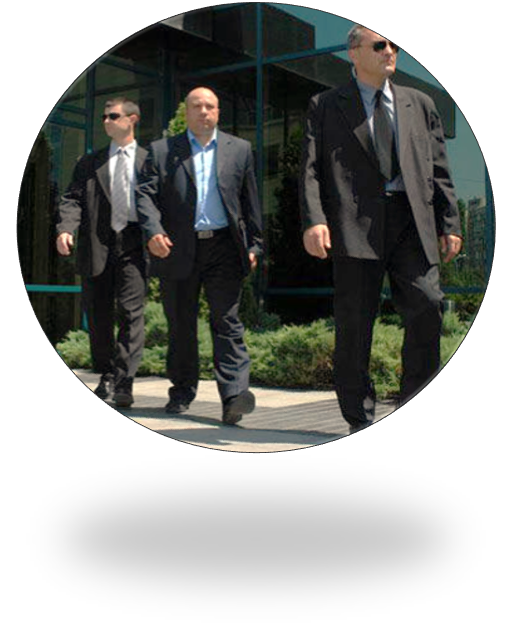
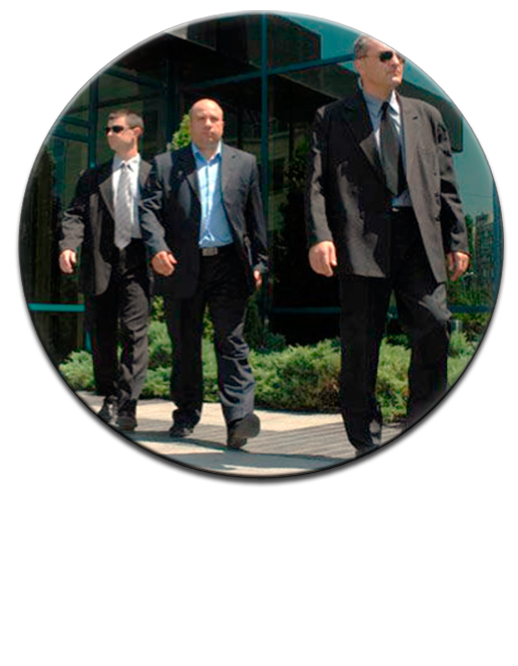
cambio de imagenes en servicios

diff --git a/index.html b/index.html
@@ -253,14 +253,14 @@
                              <h5 align="center">Asesoría en cuanto a Prevención Protocolar VIP</h5> 
                             </div>
                             <div class="panel-body">
-                                <div class="">
+                                <div class="round-body">
                             			<div class="price-main">
-                            				<span class="price-Unit"><i><img src="assets/img/Imagen1.png" class="img-responsive"></i></span>
+                            				<span class="price-Unit"><i><img src="assets/img/Imagen7.png" class="img-responsive"></i></span>
                             			</div>
 		                            </div>
                           <ul class="plan">      
                           <hr>
-                           <p align="justify">Asesoramiento dentro de los parámetros legales permitidos.</p>
+                           <p align="justify">Asesoramiento en la aplicación de dispositivos de protección mediante el estudio de vulnerabilidad en la que se encuentra nuestro cliente.</p>
                            </ul>
                             </div>
                         </div>
@@ -273,14 +273,14 @@
                              <h5 align="center">Traslados Ejecutivos con Prevención Protocolar VIP</h5> 
                             </div>
                             <div class="panel-body">
-                                <div class="">
+                                <div class="round-body">
                                   <div class="price-main">
-                                    <span class="price-Unit"><i><img src="assets/img/Imagen2.jpg" class="img-responsive"></i></span>
+                                    <span class="price-Unit"><i><img src="assets/img/Imagen8.png" class="img-responsive"></i></span>
                                   </div>
                                 </div>
                           <ul class="plan">      
                           <hr>
-                           <p align="justify">Servicio de traslado ejecutivo VIP con acompañamiento preventivo.</p>
+                           <p align="justify">Traslados ejecutivos con la logística vehicular adecuada para la seguridad y confort de nuestro cliente.</p>
                            </ul>
                             </div>
                         </div>
@@ -294,14 +294,14 @@
                              <h5 align="center">Dispositivos de protección eventual VIP</h5> 
                             </div>
                             <div class="panel-body">
-                                <div class="">
+                                <div class="round-body">
                                   <div class="price-main">
-                                    <span class="price-Unit"><i><img src="assets/img/Imagen3.jpg" class="img-responsive" style="width: 231px; height: 155px;"></i></span>
+                                    <span class="price-Unit"><i><img src="assets/img/Imagen9.png" class="img-responsive" style="width: 129px; height: 166px;"></i></span>
                                   </div>
                                 </div>
                           <ul class="plan">      
                           <hr>
-                           <p align="justify">Bodas, Cumpleaños, Celebridades Ceremoniales VIP, Conciertos.</p>
+                           <p align="justify">Dispositivos de protección protocolar para eventos especiales vip, Actos Ceremoniales, Bodas, Fiestas, Conciertos etc.</p>
                            </ul>
                             </div>
                         </div>
@@ -316,14 +316,14 @@
                              <h5 align="center">Dispositivos de protección para personalidades VIP</h5> 
                             </div>
                             <div class="panel-body">
-                                <div class="">
+                                <div class="round-body">
                                   <div class="price-main">
-                                    <span class="price-Unit"><i><img src="assets/img/Imagen12.png" class="img-responsive" style="width: 231px; height: 155px;"></i></span>
+                                    <span class="price-Unit"><i><img src="assets/img/Imagen10.png" class="img-responsive" style="width: 129px; height: 166px;"></i></span>
                                   </div>
                                 </div>
                           <ul class="plan">      
                           <hr>
-                           <p align="justify">Servicio dirigido a proteger a personas de alto riesgo.</p>
+                           <p align="justify">Dispositivos de Protección protocolar para personalidades vip, con acompañamiento ejecutivo de prevención y logística.</p>
                            </ul>
                             </div>
                         </div>
@@ -339,14 +339,14 @@
                              <h5 align="center">Verificación Protocolar de la Información</h5> 
                             </div>
                             <div class="panel-body">
-                                <div class="">
+                                <div class="round-body">
                                   <div class="price-main">
-                                    <span class="price-Unit"><i><img src="assets/img/Imagen5.png" class="img-responsive"></i></span>
+                                    <span class="price-Unit"><i><img src="assets/img/Imagen11.png" class="img-responsive" style="width: 129px; height: 166px;"></i></span>
                                   </div>
                                 </div>
                           <ul class="plan">      
                           <hr>
-                           <p align="justify">Investigaciones necesarias para garantizar la seguridad del cliente.</p>
+                           <p align="justify">Verificación y Procesamiento Protocolar de la información Suministrada.</p>
                            </ul>
                             </div>
                         </div>
